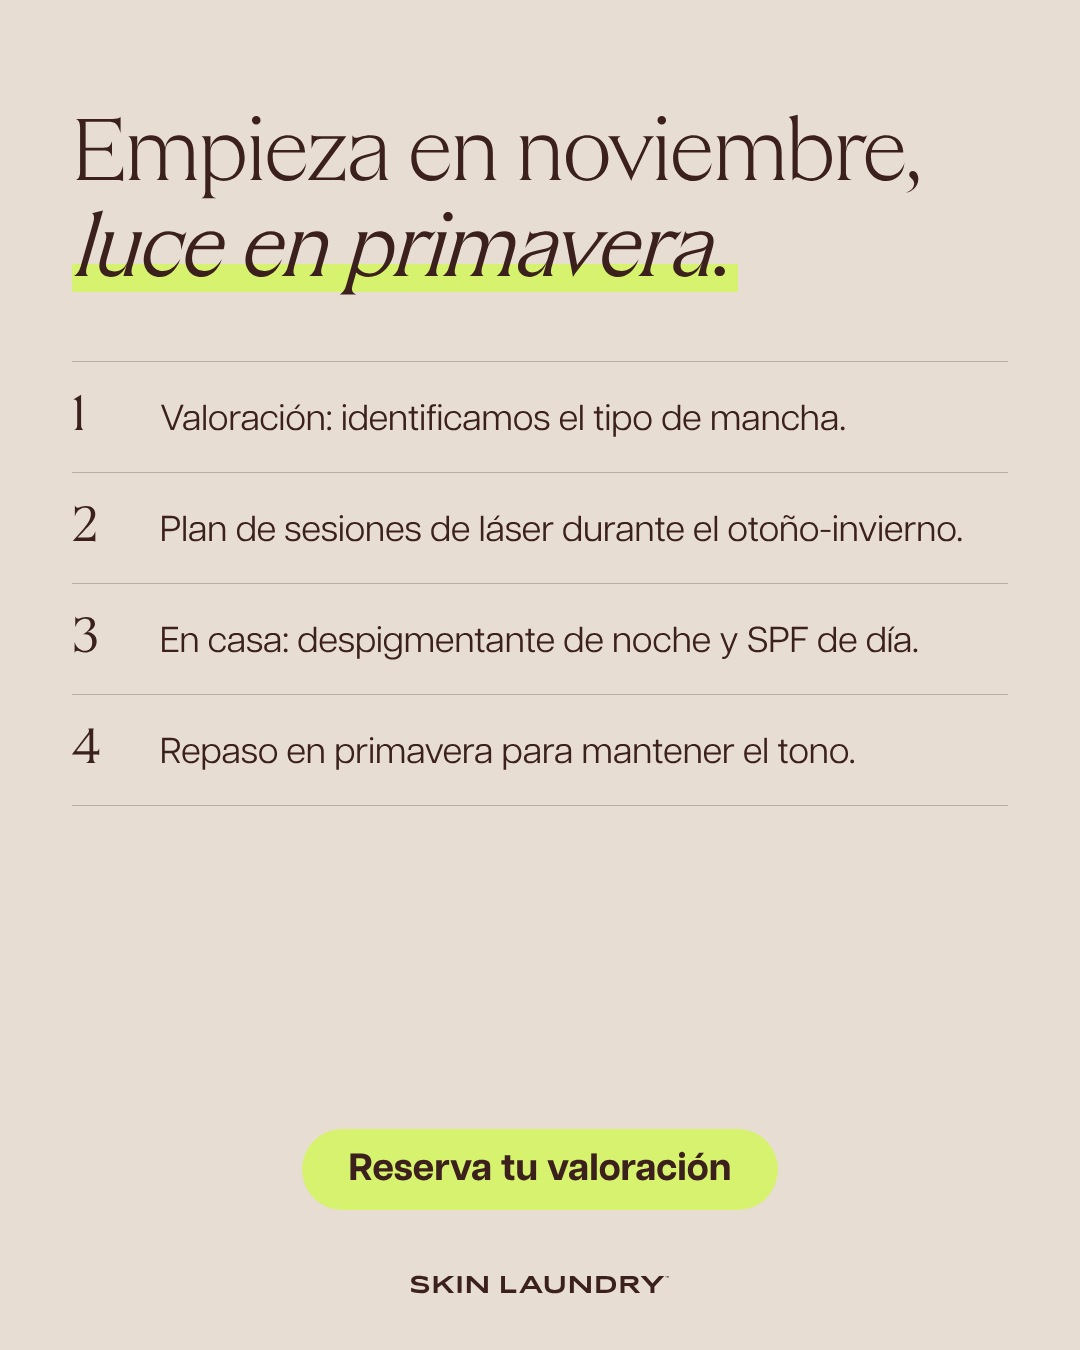
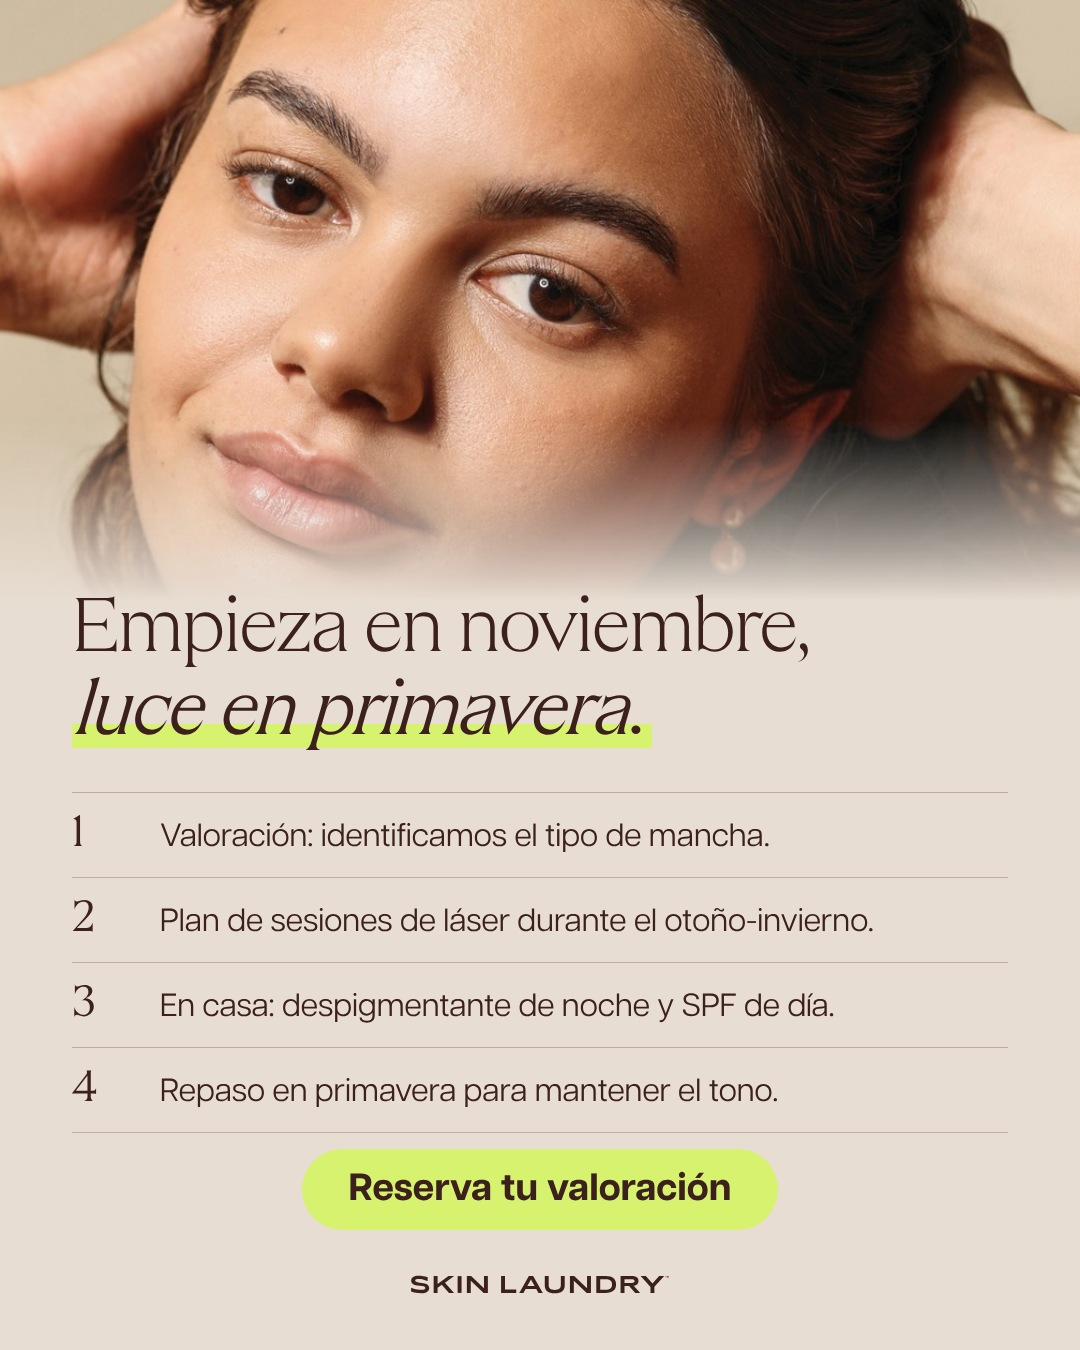
Skin Laundry: slides 2-4 del 30 con foto de fondo
Claude-Session: https://claude.ai/code/session_01JZ4qrB4vBJCM1LriYw1bZU

diff --git a/public/pitch/skin-laundry-calendario/noviembre/index.html b/public/pitch/skin-laundry-calendario/noviembre/index.html
@@ -840,7 +840,7 @@ Ven a conocernos. Tienes toda la información en el enlace de la bio.
 Treat. Glow. Repeat.
 #SkinLaundry #SkinLaundryBarcelona #LaserFacial #TreatGlowRepeat` },
 
-{ d:30, formato:"Carrusel", estado:"listo", media:"/pitch/skin-laundry-calendario/noviembre/img/d30_1_v2.jpg?v=11191451", slides:["/pitch/skin-laundry-calendario/noviembre/img/d30_1_v2.jpg?v=11191451","/pitch/skin-laundry-calendario/noviembre/img/d30_2_v2.jpg?v=11191454","/pitch/skin-laundry-calendario/noviembre/img/d30_3_v2.jpg?v=11191454","/pitch/skin-laundry-calendario/noviembre/img/d30_4_v2.jpg?v=11191454"], cubo:"Láser", tema:"Manchas", hora:"19:30h",
+{ d:30, formato:"Carrusel", estado:"listo", media:"/pitch/skin-laundry-calendario/noviembre/img/d30_1_v2.jpg?v=11191451", slides:["/pitch/skin-laundry-calendario/noviembre/img/d30_1_v2.jpg?v=11191451","/pitch/skin-laundry-calendario/noviembre/img/d30_2_v2.jpg?v=11191456","/pitch/skin-laundry-calendario/noviembre/img/d30_3_v2.jpg?v=11191456","/pitch/skin-laundry-calendario/noviembre/img/d30_4_v2.jpg?v=11191456"], cubo:"Láser", tema:"Manchas", hora:"19:30h",
   nota:"Mismos textos que el diseño original, sin elementos de plantilla · pendiente precio de Cosmelan y del Pack Adiós Melasma (van sin precio en la slide 3)", pieza:"Manchas en otoño: cuándo empezar a tratarlas", base:"Doc §3", cta:"Reserva tu valoración",
   idea:["Portada: «Manchas en otoño: cuándo empezar a tratarlas»"],
   story:["Story de diseño propio","Enlace a añadir desde Instagram: Reserva tu valoración"],
